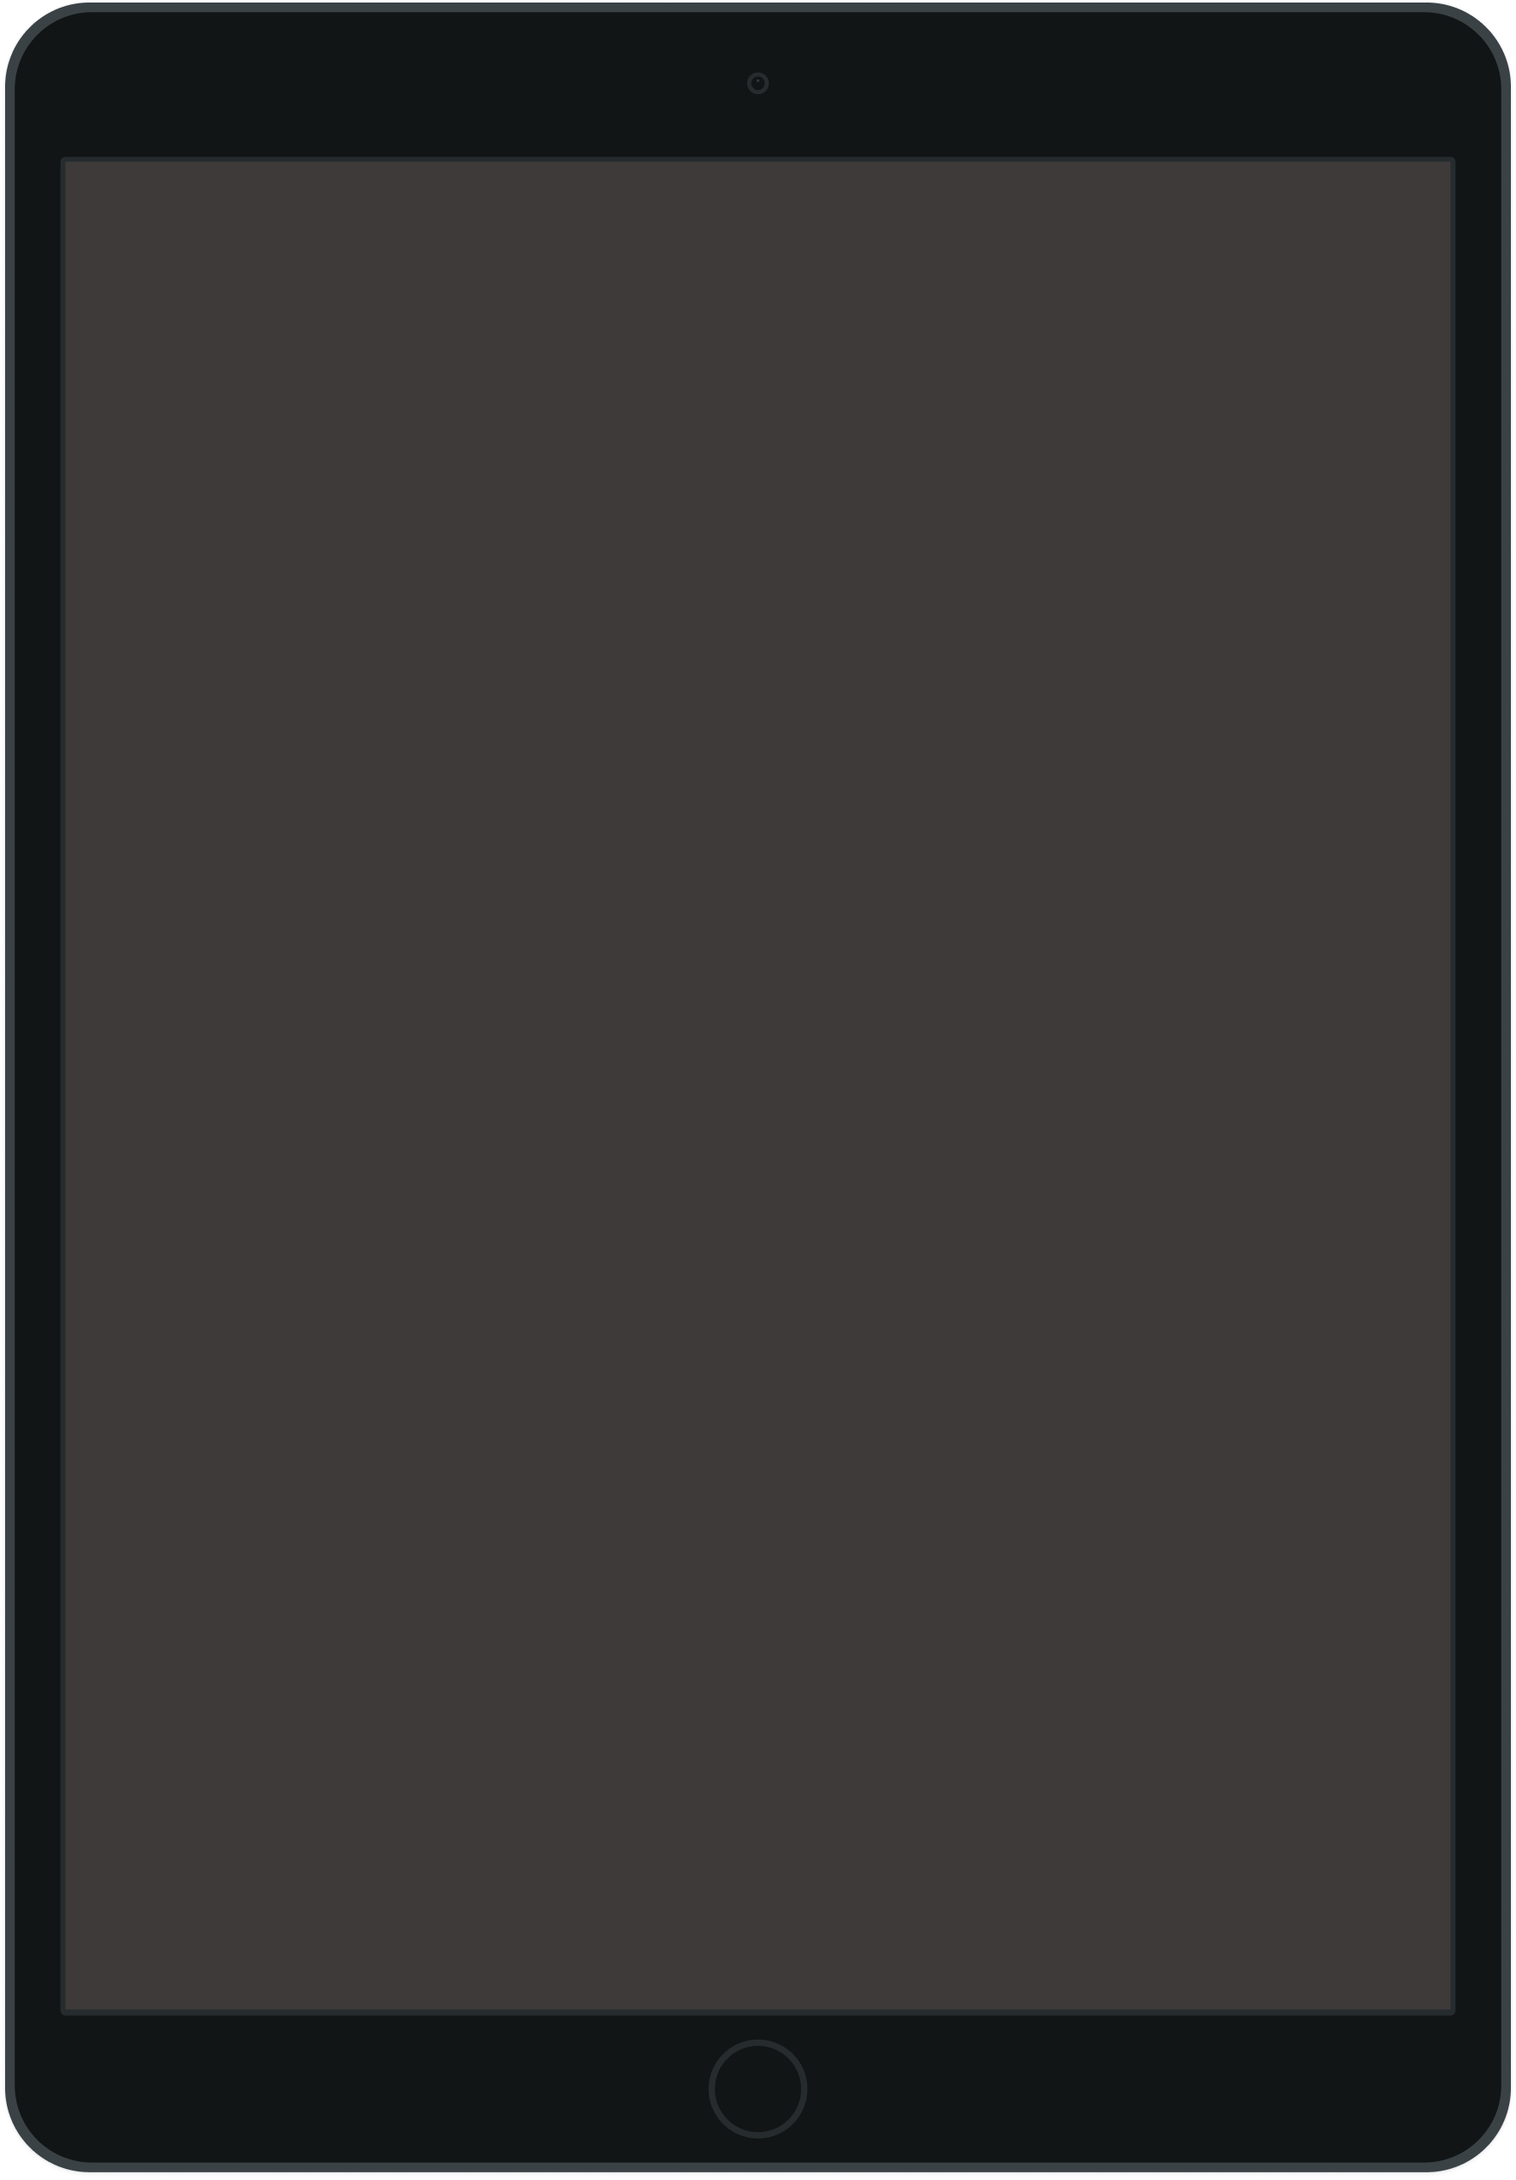
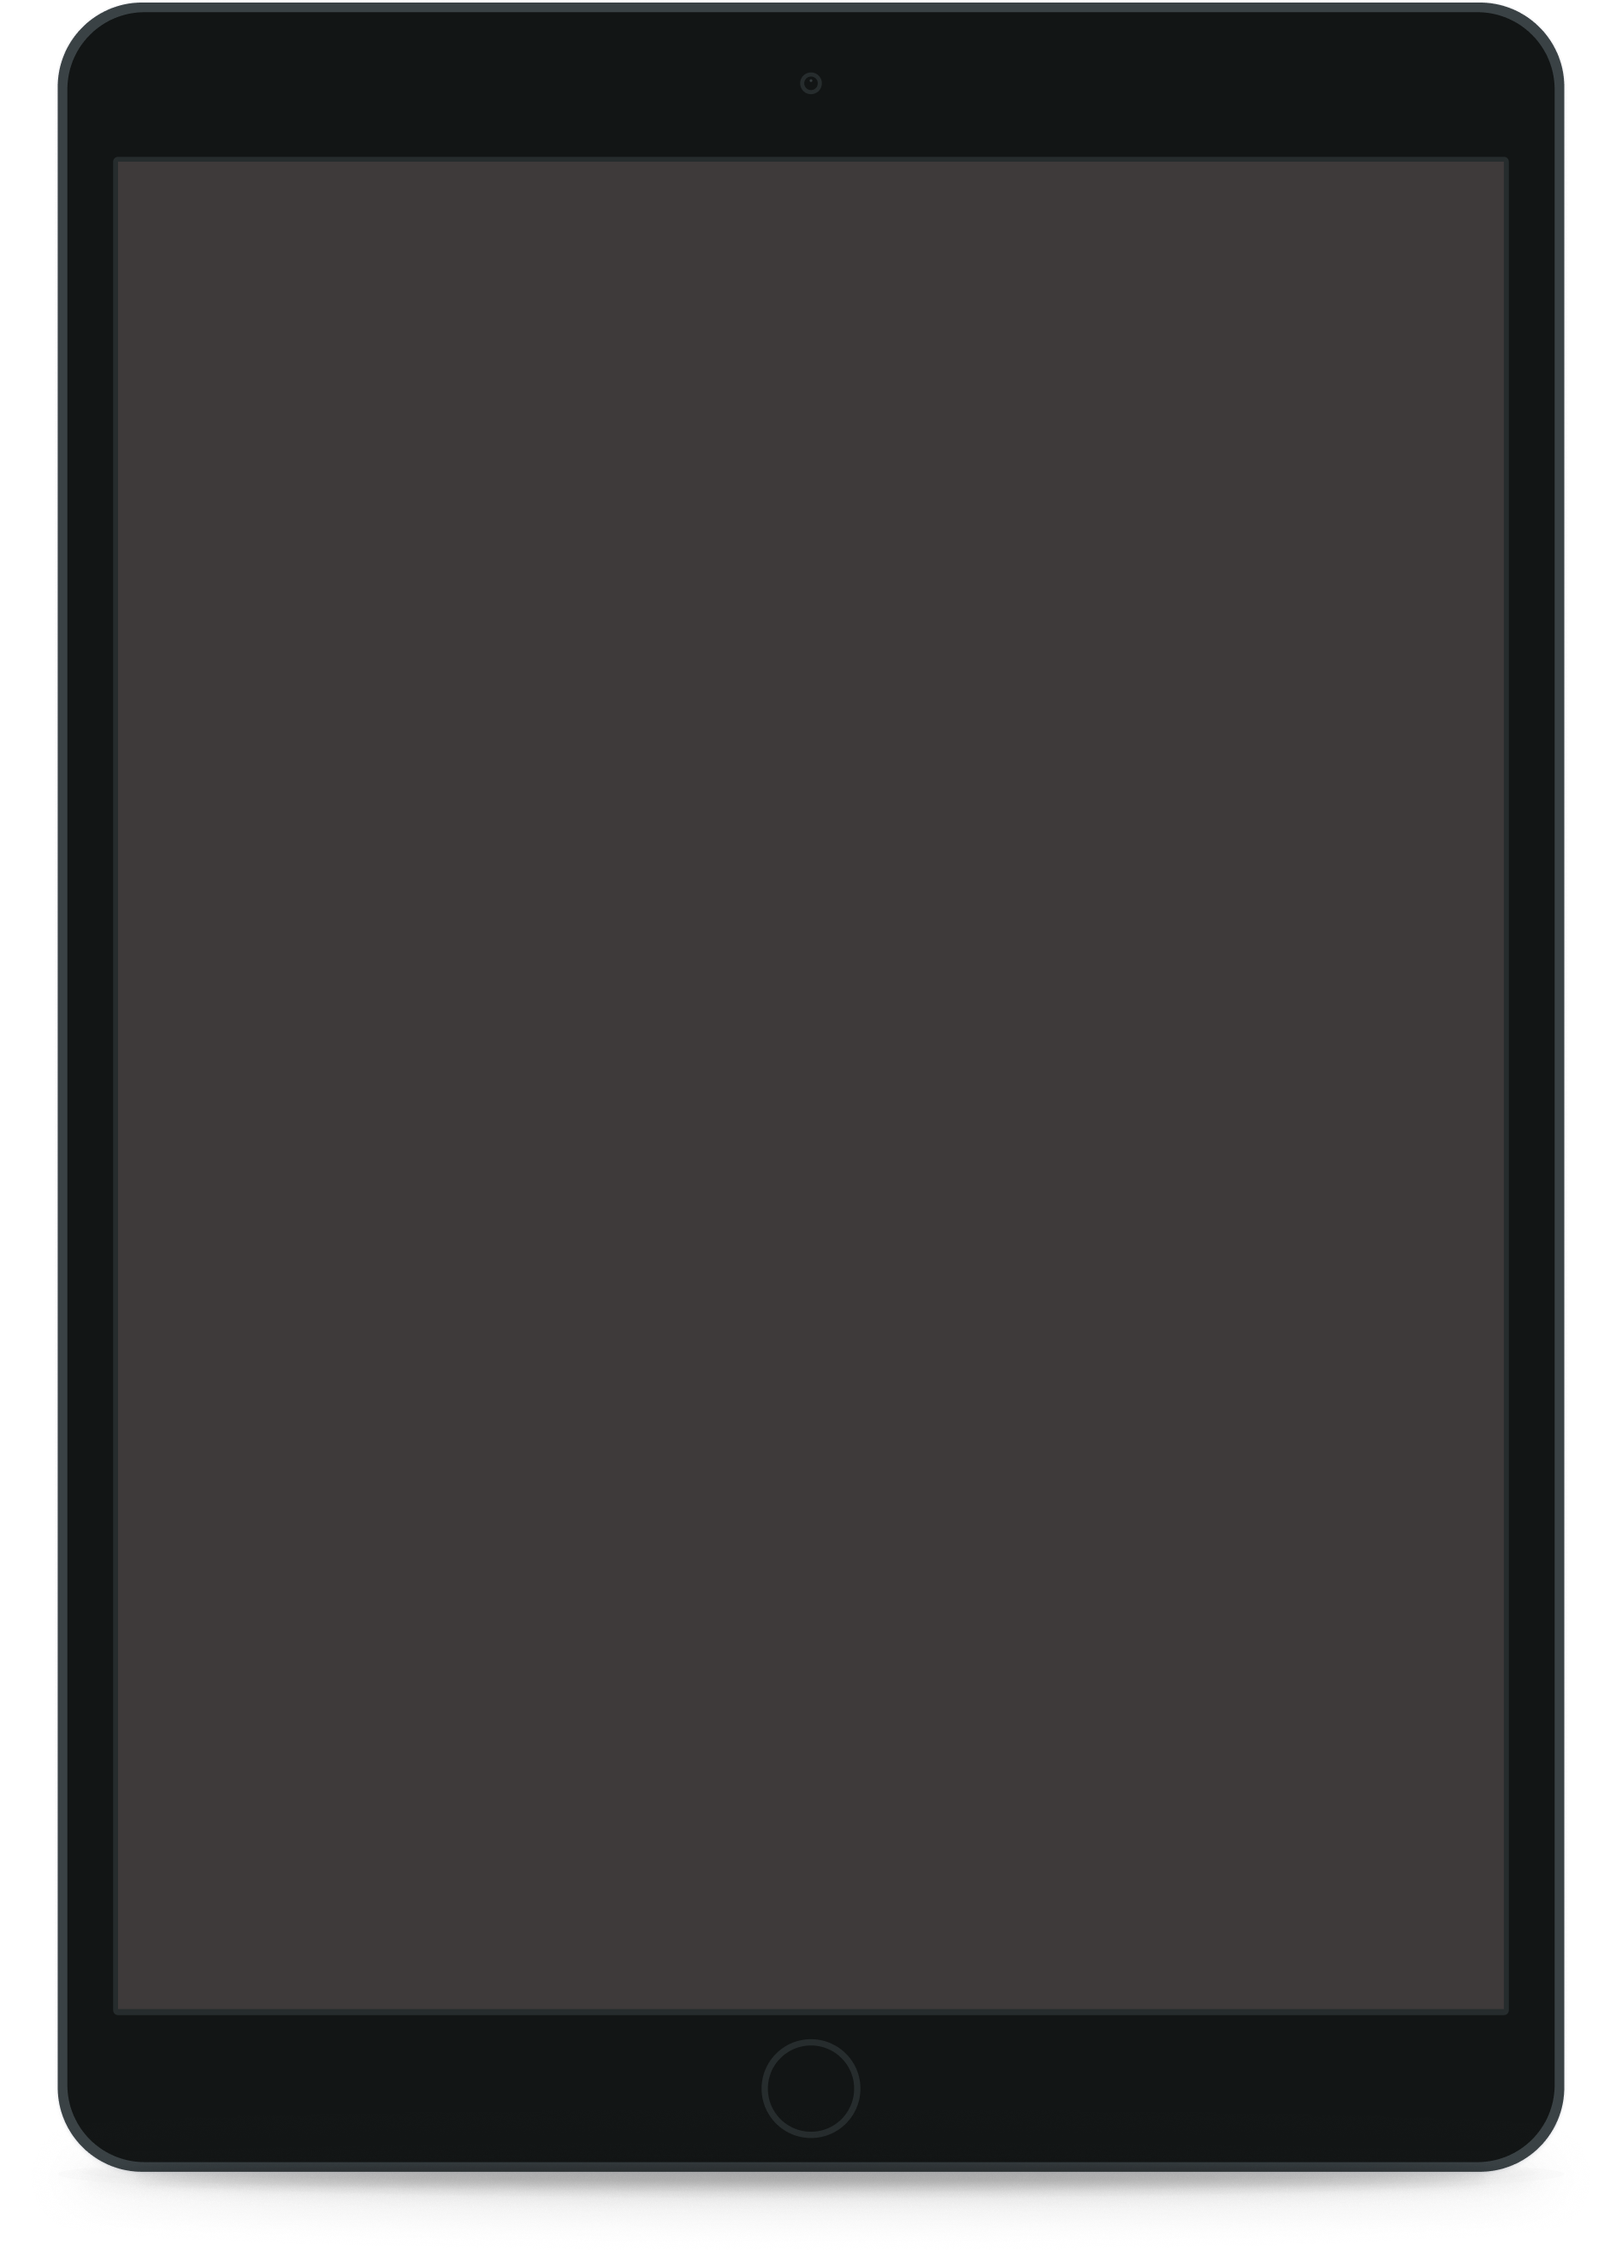
Dim the LTI demo with a black overlay and fit the screen to the shadowed iPad frame.

Changed region(s): [[0.0, 0.0, 1.0, 1.0]]

diff --git a/css/portfolio-nested.css b/css/portfolio-nested.css
@@ -2050,10 +2050,10 @@ img.warning-gif {
 
 .lti-demo-screen {
     position: absolute;
-    left: calc(100% * 70 / 1773);
-    top: calc(100% * 182 / 2548);
-    width: calc(100% * 1633 / 1773);
-    height: calc(100% * 2174 / 2548);
+    left: calc(100% * 131 / 1896);
+    top: calc(100% * 182 / 2642);
+    width: calc(100% * 1634 / 1896);
+    height: calc(100% * 2174 / 2642);
     overflow: hidden;
     z-index: 2;
 }
@@ -2075,15 +2075,15 @@ img.warning-gif {
     z-index: 1;
     object-fit: cover;
     object-position: top center;
-    filter: blur(4px);
-    transform: scale(1.06);
+    filter: blur(2px);
+    transform: scale(1.03);
 }
 
 .lti-demo-scrim {
     position: absolute;
     inset: 0;
     z-index: 2;
-    background: rgba(255, 255, 255, 0.5);
+    background: rgba(0, 0, 0, 0.5);
 }
 
 .lti-demo-account,
